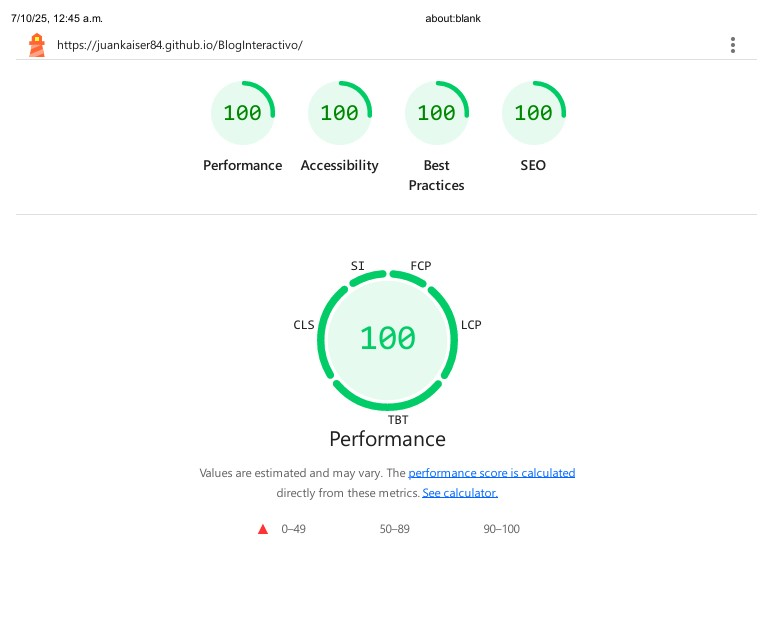
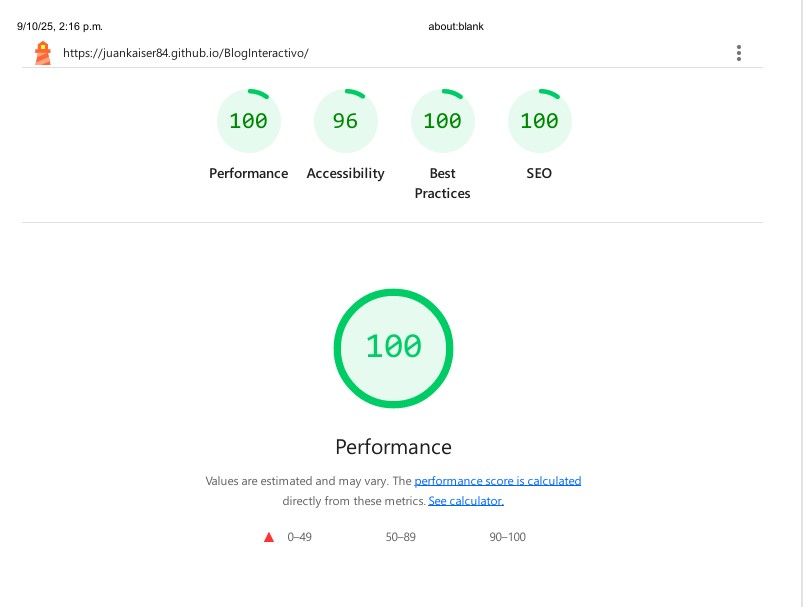
docs: README actualizado, CHANGELOG y plantillas de issues; + screenshots Lighthouse

diff --git a/.github/ISSUE_TEMPLATE/admin_backlog.md b/.github/ISSUE_TEMPLATE/admin_backlog.md
@@ -1,0 +1,41 @@
+---
+name: "🛠 Roadmap Admin & CRUD"
+about: Backlog para panel de administración, CRUD y personalización
+labels: ["admin", "roadmap", "enhancement"]
+---
+
+## Objetivo
+Crear un **panel admin** para gestionar posts y configuración sin editar archivos a mano.
+
+## Alcance (MVP)
+- [ ] **Editor de posts (UI)**: título, resumen, categoría, imagen, fecha y slug.
+- [ ] **Persistencia**:
+  - Opción A (estático): escribir en `assets/data/posts.json` (con validación).
+  - Opción B (server): **PHP** con endpoints (`/admin/api/posts`) y JSON.
+- [ ] **CRUD**: crear, listar, editar, eliminar posts.
+- [ ] **Subida de imágenes** (arrastrar y soltar) con redimensionado básico.
+- [ ] **Autenticación simple** (sesión PHP o token) para proteger `/admin/`.
+- [ ] **Previsualización** del post antes de guardar.
+- [ ] **Validaciones**: campos requeridos, longitud, formatos de fecha, tamaño de imagen.
+
+## Personalización (fase 2)
+- [ ] Temas (paletas) editables desde Admin.
+- [ ] Config SEO por post (title/description).
+- [ ] Reordenar posts y fijar destacados.
+- [ ] Export/backup de `posts.json`.
+
+## Criterios de aceptación
+- [ ] Crear post desde UI y verlo reflejado en la home.
+- [ ] Editar post y persistir cambios.
+- [ ] Eliminar post con confirmación.
+- [ ] Acceso al admin restringido a usuario autenticado.
+
+## Notas técnicas
+- **Stack sugerido**: PHP 8.x + JSON como storage (simple).
+- **Rutas**:
+  - `GET /admin/` → UI
+  - `GET /admin/api/posts` → lista
+  - `POST /admin/api/posts` → crear
+  - `PUT /admin/api/posts/{id}` → editar
+  - `DELETE /admin/api/posts/{id}` → eliminar
+- **Front Admin**: HTML/CSS/JS vanilla (mantener coherencia del proyecto).

diff --git a/CHANGELOG.md b/CHANGELOG.md
@@ -1,0 +1,43 @@
+# Changelog
+
+Formato basado en _Keep a Changelog_. Versionado semántico.
+
+## [0.4.0] - 2025-10-09
+### Añadido
+- Live region única `role="status"` para el contador de resultados.
+- Atributos `width/height` y `aspect-ratio` 16:9 en miniaturas (reduce CLS).
+- Debounce de búsqueda a 300 ms.
+- Render de tarjetas en lotes con `requestAnimationFrame`.
+
+### Cambiado
+- Limpieza de ARIA redundante (botón menú con `aria-controls/aria-expanded` y sin ARIA innecesaria en enlaces).
+- Contraste AA en badges y botones (texto negro sobre cian, blanco sobre púrpura).
+
+### Corregido
+- Variación de layout entre local y Pages mitigada (caché + orden de assets).
+- Caídas de performance por listeners globales (eliminado monkey-patch).
+- Menús accesibles: cierre con `Escape`, foco visible.
+
+### Métricas (Lighthouse)
+- **Desktop:** Perf 100 · A11y 96 · BP 100 · SEO 100 · TBT 0 ms · CLS 0.018
+- **Mobile:** Perf 95 · A11y 96 · BP 100 · SEO 100 · TBT 260 ms · CLS 0
+
+## [0.3.1] - 2025-10-08
+### Cambiado
+- Congelado de layout “estable local” antes de ajustes en Pages.
+- Paginación (cargar más/menos) ajustada y búsqueda en tiempo real.
+
+## [0.3.0] - 2025-10-03
+### Añadido
+- Tema claro/oscuro con `localStorage`.
+- Menú hamburguesa responsive.
+- Carga dinámica de posts desde `assets/data/posts.json`.
+
+## [0.2.0] - 2025-10-01
+### Añadido
+- Estructura semántica inicial (home, sidebar, cards, header/footer).
+- Variables CSS y estilos base mobile-first.
+
+## [0.1.0] - 2025-09-30
+### Inicial
+- Boot del proyecto: HTML/CSS/JS mínimos y repo en GitHub.

diff --git a/.github/ISSUE_TEMPLATE/bug_report.md b/.github/ISSUE_TEMPLATE/bug_report.md
@@ -1,0 +1,23 @@
+---
+name: "🐞 Bug report"
+about: Reporta un problema reproducible
+labels: ["bug"]
+---
+
+**Descripción**
+Qué pasa y qué esperabas que pasara.
+
+**Pasos para reproducir**
+1. Ir a...
+2. Click en...
+3. Ver error...
+
+**Evidencia**
+- Capturas / video / error de consola
+
+**Entorno**
+- Navegador y versión:
+- URL (Pages o local):
+
+**Notas**
+- ¿Afecta a móvil, desktop o ambos?

diff --git a/.github/ISSUE_TEMPLATE/feature_request.md b/.github/ISSUE_TEMPLATE/feature_request.md
@@ -1,0 +1,19 @@
+---
+name: "✨ Feature request"
+about: Pide una nueva funcionalidad del blog público
+labels: ["enhancement"]
+---
+
+**Qué quieres lograr**
+Describe el objetivo (no la solución técnica).
+
+**Propuesta**
+- [ ] Detalle 1
+- [ ] Detalle 2
+
+**Criterios de aceptación**
+- [ ] Caso de uso A
+- [ ] Caso de uso B
+
+**Notas**
+Mockups / referencias opcionales.

diff --git a/.github/ISSUE_TEMPLATE/tech_task.md b/.github/ISSUE_TEMPLATE/tech_task.md
@@ -1,0 +1,17 @@
+---
+name: "🧩 Tech task"
+about: Refactor, rendimiento, accesibilidad, deuda técnica
+labels: ["tech-debt"]
+---
+
+**Descripción**
+Qué parte del código se quiere mejorar y por qué.
+
+**Plan**
+- [ ] Paso 1
+- [ ] Paso 2
+
+**Checklist**
+- [ ] Tests manuales (mobile/desktop)
+- [ ] Lighthouse ≥ 90 mobile
+- [ ] Sin cambios de UI visibles (si aplica)
